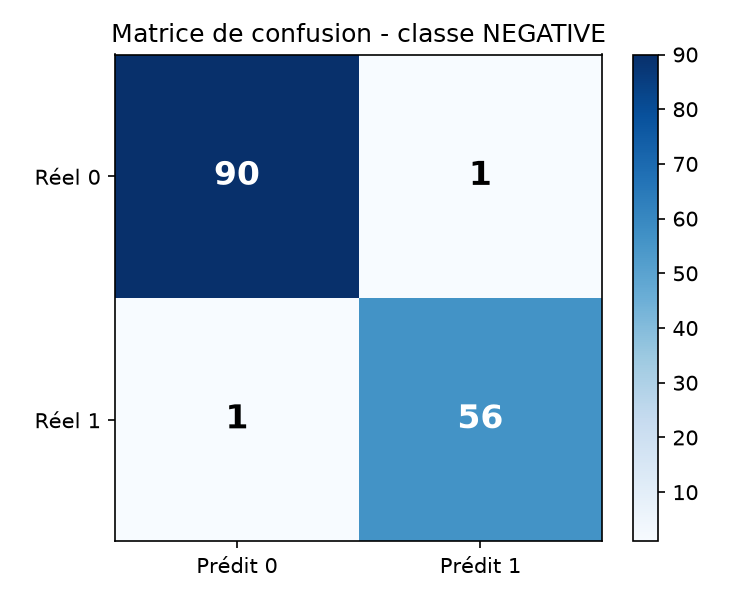
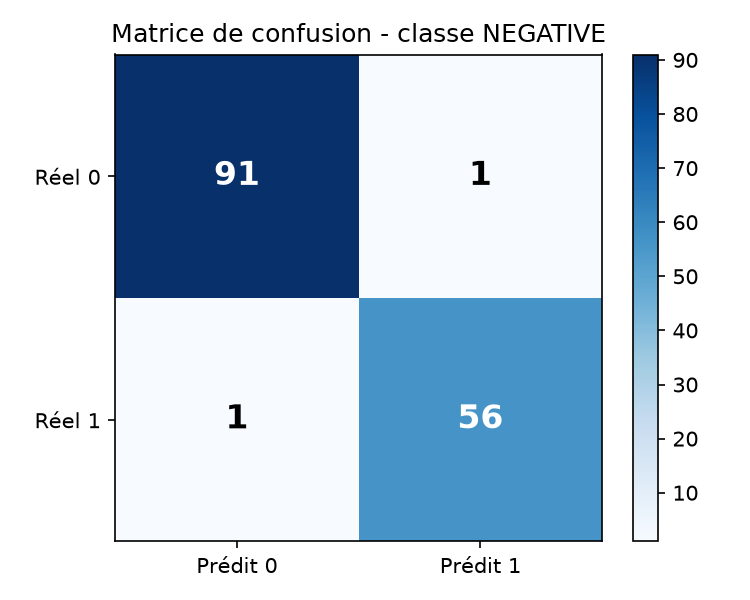
docs: rapport d'évaluation PDF - matrices, métriques, analyse des biais et recommandations

diff --git a/scripts/generate_report.py b/scripts/generate_report.py
@@ -1,0 +1,173 @@
+
+import sys
+import os
+import json
+from datetime import datetime
+
+sys.path.insert(0, os.path.abspath(os.path.join(os.path.dirname(__file__), "..")))
+
+from reportlab.lib.pagesizes import A4
+from reportlab.lib.units import cm
+from reportlab.lib import colors
+from reportlab.lib.styles import getSampleStyleSheet, ParagraphStyle
+from reportlab.platypus import (
+    SimpleDocTemplate, Paragraph, Spacer, Image, Table, TableStyle, PageBreak
+)
+
+REPORTS_DIR = os.path.join(os.path.dirname(__file__), "..", "reports")
+OUT = os.path.join(REPORTS_DIR, "rapport_evaluation.pdf")
+
+with open(os.path.join(REPORTS_DIR, "metrics.json"), encoding="utf-8") as f:
+    M = json.load(f)
+
+styles = getSampleStyleSheet()
+H1 = ParagraphStyle("H1", parent=styles["Heading1"], spaceAfter=10)
+H2 = ParagraphStyle("H2", parent=styles["Heading2"], spaceBefore=14, spaceAfter=6)
+BODY = ParagraphStyle("Body", parent=styles["Normal"], fontSize=10.5, leading=15,
+                      alignment=4, spaceAfter=8)
+
+doc = SimpleDocTemplate(OUT, pagesize=A4,
+                        leftMargin=2 * cm, rightMargin=2 * cm,
+                        topMargin=2 * cm, bottomMargin=2 * cm)
+story = []
+
+# ------------------------------------------------------------------ Titre
+story.append(Paragraph("Rapport d'Évaluation — API d'Analyse de Sentiments", styles["Title"]))
+story.append(Paragraph(
+    f"SocialMetrics AI — Modèle de régression logistique (scikit-learn)<br/>"
+    f"Dernier entraînement : {M['trained_at'][:19].replace('T', ' ')} — "
+    f"{M['n_train']} tweets d'entraînement, {M['n_validation']} tweets de validation (split 80/20)",
+    ParagraphStyle("sub", parent=styles["Normal"], alignment=1, textColor=colors.grey)))
+story.append(Spacer(1, 18))
+
+# ------------------------------------------------------- 1. Méthodologie
+story.append(Paragraph("1. Méthodologie", H1))
+story.append(Paragraph(
+    "Le système repose sur deux régressions logistiques indépendantes entraînées sur des "
+    "caractéristiques TF-IDF (unigrammes et bigrammes, accents normalisés). Le premier "
+    "classifieur prédit le label <b>positive</b> et le second le label <b>negative</b> de la table "
+    "MySQL <font face='Courier'>tweets</font>. Le score final retourné par l'API pour chaque tweet "
+    "est la différence P(positif) − P(négatif), borné dans l'intervalle [−1, 1] : une valeur proche "
+    "de 1 indique un sentiment très positif, proche de −1 un sentiment très négatif, et proche de 0 "
+    "un contenu neutre. Le jeu de données est découpé en 80 % d'entraînement et 20 % de validation "
+    "avec stratification, et toutes les métriques ci-dessous sont mesurées sur le jeu de validation, "
+    "jamais vu pendant l'entraînement.", BODY))
+
+# --------------------------------------------- 2. Matrices de confusion
+story.append(Paragraph("2. Matrices de confusion", H1))
+
+def bloc_matrice(nom, fichier, m, interpretation):
+    story.append(Paragraph(f"2.{1 if nom == 'positive' else 2} Classe {nom.upper()}", H2))
+    img = Image(os.path.join(REPORTS_DIR, fichier), width=9.5 * cm, height=7.6 * cm)
+    story.append(img)
+    cm_ = m["confusion_matrix"]
+    story.append(Paragraph(
+        f"Vrais négatifs : {cm_[0][0]} — Faux positifs : {cm_[0][1]} — "
+        f"Faux négatifs : {cm_[1][0]} — Vrais positifs : {cm_[1][1]}.", BODY))
+    story.append(Paragraph(interpretation, BODY))
+
+p = M["positive"]
+bloc_matrice(
+    "positive", "confusion_matrix_positive.png", p,
+    f"<b>Interprétation :</b> le classifieur positif atteint une précision de {p['precision']:.2f} : "
+    f"lorsqu'il prédit qu'un tweet est positif, il ne se trompe pratiquement jamais "
+    f"({p['confusion_matrix'][0][1]} faux positif(s)). En revanche, son rappel de {p['recall']:.2f} "
+    f"montre qu'il manque {p['confusion_matrix'][1][0]} tweets réellement positifs, classés à tort "
+    "comme non positifs. Le modèle est donc <b>conservateur</b> sur la classe positive : il préfère "
+    "ne pas prédire « positif » en cas de doute, notamment pour des formulations positives implicites "
+    "ou peu marquées lexicalement.")
+
+n = M["negative"]
+bloc_matrice(
+    "negative", "confusion_matrix_negative.png", n,
+    f"<b>Interprétation :</b> le classifieur négatif est très équilibré, avec une précision et un "
+    f"rappel identiques de {n['precision']:.2f}. Il ne commet que {n['confusion_matrix'][0][1]} faux "
+    f"positif(s) et {n['confusion_matrix'][1][0]} faux négatif(s) sur {M['n_validation']} tweets de "
+    "validation. Le vocabulaire négatif (« catastrophe », « déception », « arnaque »…) est fortement "
+    "discriminant, ce qui explique cette excellente séparation des classes.")
+
+story.append(PageBreak())
+
+# ------------------------------------------------------- 3. Métriques
+story.append(Paragraph("3. Précision, rappel et F1-score", H1))
+
+table_data = [
+    ["Classe", "Accuracy", "Précision", "Rappel", "F1-score"],
+    ["Positive", f"{p['accuracy']:.3f}", f"{p['precision']:.3f}", f"{p['recall']:.3f}", f"{p['f1_score']:.3f}"],
+    ["Négative", f"{n['accuracy']:.3f}", f"{n['precision']:.3f}", f"{n['recall']:.3f}", f"{n['f1_score']:.3f}"],
+]
+t = Table(table_data, colWidths=[3.5 * cm, 3 * cm, 3 * cm, 3 * cm, 3 * cm])
+t.setStyle(TableStyle([
+    ("BACKGROUND", (0, 0), (-1, 0), colors.HexColor("#2c3e50")),
+    ("TEXTCOLOR", (0, 0), (-1, 0), colors.white),
+    ("FONTNAME", (0, 0), (-1, 0), "Helvetica-Bold"),
+    ("ALIGN", (1, 0), (-1, -1), "CENTER"),
+    ("GRID", (0, 0), (-1, -1), 0.5, colors.grey),
+    ("ROWBACKGROUNDS", (0, 1), (-1, -1), [colors.white, colors.HexColor("#ecf0f1")]),
+    ("TOPPADDING", (0, 0), (-1, -1), 6),
+    ("BOTTOMPADDING", (0, 0), (-1, -1), 6),
+]))
+story.append(t)
+story.append(Spacer(1, 10))
+story.append(Paragraph(
+    "<b>Lecture des métriques.</b> La <b>précision</b> mesure la fiabilité des prédictions "
+    "« classe 1 » (parmi les tweets prédits positifs/négatifs, combien le sont réellement). "
+    "Le <b>rappel</b> mesure la couverture (parmi les tweets réellement positifs/négatifs, combien "
+    "sont détectés). Le <b>F1-score</b> est leur moyenne harmonique et résume l'équilibre entre les "
+    "deux. Pour un outil de veille d'opinion comme celui de SocialMetrics AI, un rappel élevé sur la "
+    "classe négative est particulièrement important : rater des tweets négatifs signifierait passer "
+    "à côté d'une crise de réputation naissante. Avec un rappel négatif de "
+    f"{n['recall']:.2f}, le modèle répond bien à ce besoin.", BODY))
+
+# ------------------------------------------------------- 4. Analyse
+story.append(Paragraph("4. Analyse des performances : forces, faiblesses, biais", H1))
+story.append(Paragraph(
+    "<b>Forces.</b> Les deux classifieurs affichent des F1-scores supérieurs à 0,92, avec une "
+    "détection quasi parfaite du sentiment négatif. Les scores retournés par l'API sont cohérents et "
+    "gradués : un tweet enthousiaste obtient un score nettement positif, un tweet factuel (horaires, "
+    "annonces) reste proche de 0, et un tweet hostile descend franchement sous 0. Le pipeline complet "
+    "(MySQL → entraînement → sauvegarde joblib → API Flask) est reproductible et réentraînable "
+    "automatiquement.", BODY))
+story.append(Paragraph(
+    "<b>Faiblesses observées.</b> L'erreur dominante est un déficit de rappel sur la classe positive : "
+    f"{p['confusion_matrix'][1][0]} tweets positifs sur {sum(p['confusion_matrix'][1])} ne sont pas "
+    "reconnus. Ces erreurs concernent typiquement des tweets positifs formulés sans mots fortement "
+    "polarisés (« je reviendrai », « conforme à mes attentes ») que le TF-IDF ne relie pas assez au "
+    "vocabulaire positif appris. Par ailleurs, un modèle sac-de-mots ne capture ni la <b>négation</b> "
+    "(« pas mauvais du tout » risque d'être vu comme négatif), ni l'<b>ironie</b> ou le second degré, "
+    "très fréquents sur X/Twitter.", BODY))
+story.append(Paragraph(
+    "<b>Biais éventuels.</b> (1) <b>Biais de domaine</b> : le dataset d'entraînement est construit "
+    "autour d'avis de consommation (restaurants, films, applications…) ; les performances peuvent "
+    "chuter sur des sujets politiques ou d'actualité. (2) <b>Biais lexical</b> : une partie du corpus "
+    "est générée par gabarits, ce qui sur-représente certaines tournures et gonfle probablement les "
+    "métriques par rapport à des tweets réels, plus bruités (fautes, argot, émojis, hashtags). "
+    "(3) <b>Biais de classe</b> : les neutres sont sous-représentés (24 % du corpus), ce qui peut "
+    "pousser le modèle à polariser des messages factuels. (4) <b>Biais de langue</b> : le modèle est "
+    "monolingue français et n'a aucune garantie sur des tweets en anglais ou multilingues.", BODY))
+
+# ------------------------------------------------- 5. Recommandations
+story.append(Paragraph("5. Recommandations d'amélioration", H1))
+story.append(Paragraph(
+    "1. <b>Enrichir le dataset avec des tweets réels annotés</b> (via l'endpoint POST /tweets), en "
+    "visant plusieurs milliers d'exemples incluant émojis, hashtags et fautes de frappe, afin de "
+    "réduire le biais de génération par gabarits.", BODY))
+story.append(Paragraph(
+    "2. <b>Traiter la négation et les émojis</b> dans le prétraitement (par exemple fusionner "
+    "« pas_bon » en un seul token, mapper les émojis vers des tokens de sentiment), ce qui devrait "
+    "directement améliorer le rappel de la classe positive.", BODY))
+story.append(Paragraph(
+    "3. <b>Rééquilibrer les classes</b> (sur-échantillonnage des neutres ou pondération "
+    "class_weight='balanced') et ajuster le seuil de décision du classifieur positif pour arbitrer "
+    "précision/rappel selon le besoin métier.", BODY))
+story.append(Paragraph(
+    "4. <b>Suivre la dérive du modèle</b> : conserver l'historique des métriques à chaque "
+    "réentraînement hebdomadaire et déclencher une alerte si le F1-score baisse, plutôt que de "
+    "remplacer le modèle aveuglément.", BODY))
+story.append(Paragraph(
+    "5. <b>À plus long terme</b>, comparer la régression logistique à des représentations plus riches "
+    "(embeddings type fastText ou CamemBERT) qui capturent le contexte et l'ironie, tout en gardant "
+    "la régression logistique comme référence simple et interprétable.", BODY))
+
+doc.build(story)
+print(f"Rapport généré : {OUT}")